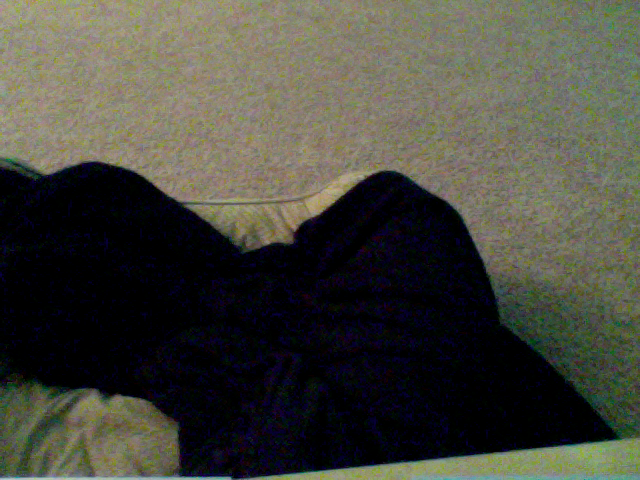
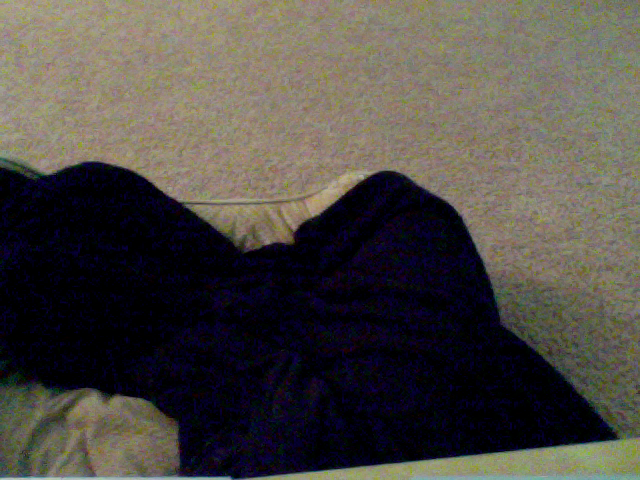
update at Month05Day07Time19:01

diff --git a/index.html b/index.html
@@ -40,7 +40,7 @@
       <div class="row">
         <div class="col-md-4">
 	<p>This picture was updated at Month05Day07Time19:01</p>
-		<img src="7_pic.png" />
+		<img src="3_pic.png" />
         </div>
       </div>
 
